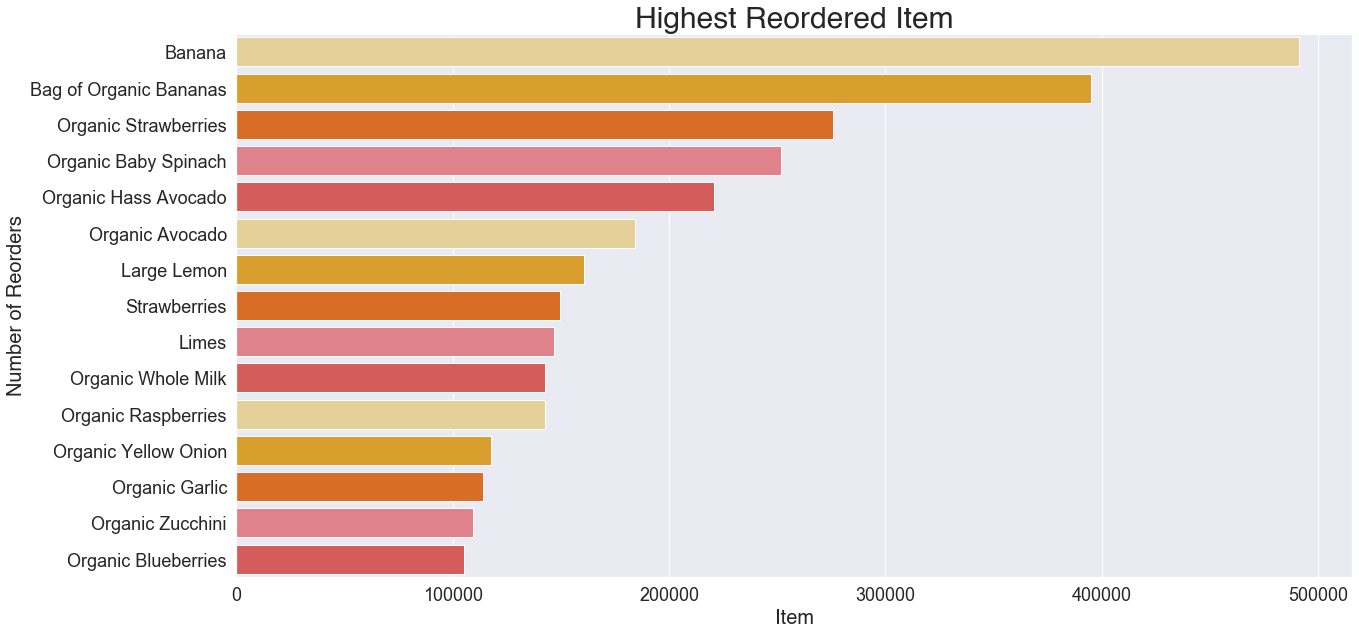
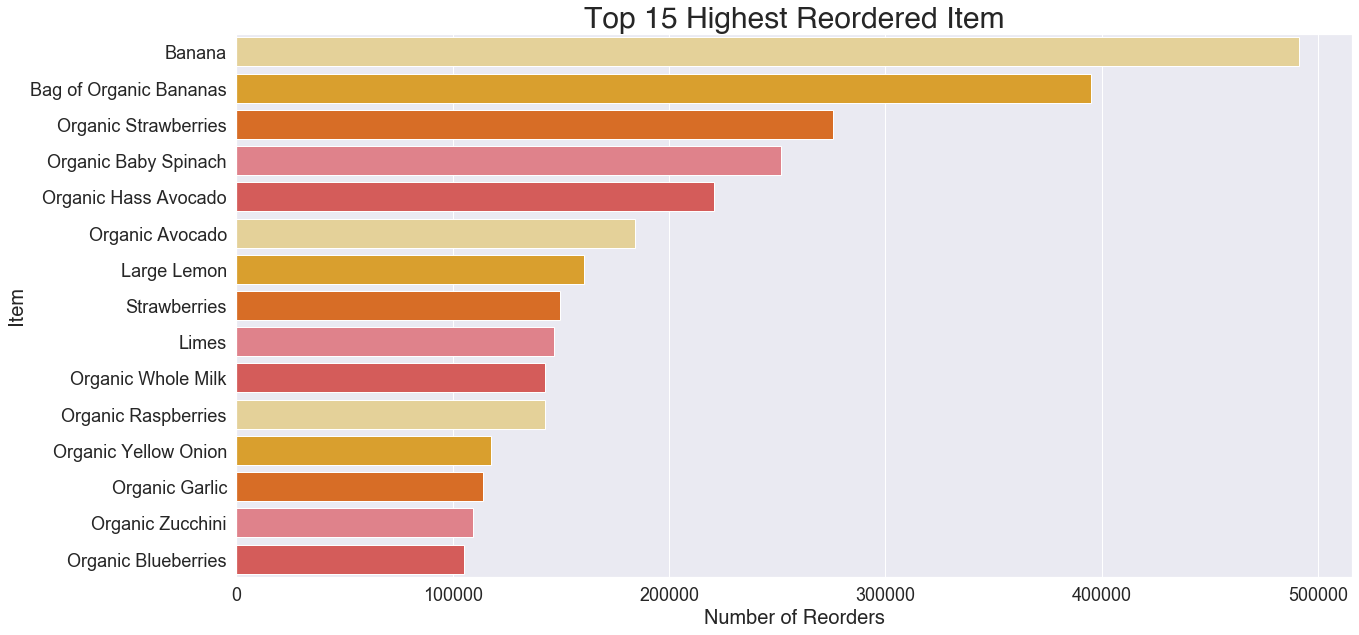
Update

Changed region(s): [[0.4327, 0.0, 0.7417, 0.0598], [0.0, 0.3591, 0.0309, 0.6283], [0.5254, 0.9575, 0.649, 0.9874]]

diff --git a/notebooks/graphing.py b/notebooks/graphing.py
@@ -12,7 +12,7 @@ def make_graph(df, col_x, col_y, title, x_label, y_label):
     ax.tick_params(axis='both', which='major', labelsize=18)
     plt.title(title, fontdict=fonttitle)
     plt.show()
-    make_graph(hours, 'index', 'order_hour_of_day', 'Orders by Hour', "Hours", 'Number of Orders')
+
 if __name__ == "__main__":
     full = pd.read_csv("../full.csv")
 
@@ -29,20 +29,22 @@ if __name__ == "__main__":
     fontaxis = {'fontname':'Helvetica', 'fontsize':20}
 
     #---    things to graph
+    high_order = full.groupby('product_name').agg({"order_id":"count"})\
+                     .sort_values(by='order_id', ascending = False).reset_index()[:15]
+
     high_reord = full.groupby('product_name').agg({"reordered":"count"})\
-                     .sort_values(by='reordered', ascending = False).reset_index()[:50]
-    # dow = full['order_dow'].value_counts().reset_index()
+                     .sort_values(by='reordered', ascending = False).reset_index()[:15]
+    dow = full['order_dow'].value_counts().reset_index()
     hours = full['order_hour_of_day'].value_counts().reset_index().sort_values(by="index")
-    # num_order = full['order_number'].value_counts()
-    # top_depart = full.groupby('department').agg({"product_name":"size"})\
-    #                  .sort_values(by='product_name', ascending = False).reset_index()
-    # top_aisle = full.groupby('aisle').agg({"product_name":"size"})\
-    #                  .sort_values(by='product_name', ascending = False).reset_index()[:25]
-    # bottom_aisle = full.groupby('aisle').agg({"product_name":"size"})\
-    #                  .sort_values(by='product_name', ascending = False).reset_index()[84:]
+    num_order = full['order_number'].value_counts()
+    top_depart = full.groupby('department').agg({"product_name":"size"})\
+                     .sort_values(by='product_name', ascending = False).reset_index()
+    top_aisle = full.groupby('aisle').agg({"product_name":"size"})\
+                     .sort_values(by='product_name', ascending = False).reset_index()[:20]
+    bottom_aisle = full.groupby('aisle').agg({"product_name":"size"})\
+                     .sort_values(by='product_name', ascending = False).reset_index()[84:]
 
     #---    plots
     make_graph(hours, 'index', 'order_hour_of_day', 'Orders by Hour', "Hours", 'Number of Orders')
-    # make_graph(dow, 'index', 'order_dow', 'Orders by Day of Week', "Day", 'Number of Orders', )
-    # make_graph(high_reord, 'product_name', 'reordered', 'Highest Reordered Item', "Item", 'Number of Reorders')
-                          
+    make_graph(dow, 'index', 'order_dow', 'Orders by Day of Week', "Day", 'Number of Orders', )
+    make_graph(high_reord, 'reordered', 'product_name', 'Top 15 Highest Reordered Item', 'Number of Reorders', "Item")                

diff --git a/notebooks/pca.py b/notebooks/pca.py
@@ -5,6 +5,8 @@ from sklearn.feature_extraction.text import TfidfVectorizer
 from sklearn.metrics import pairwise_distances
 from sklearn import metrics
 from sklearn.preprocessing import StandardScaler
+from sklearn.decomposition import PCA
+import matplotlib.pyplot as plt
 
 if __name__ == '__main__':
     #---    Upload test / train csv
@@ -28,7 +30,7 @@ if __name__ == '__main__':
     #---    PCA Work
     pca_work = pd.crosstab(full['user_id'], full['aisle'])  #shape (131,209 by 134)
     scaler = StandardScaler(copy=True, with_mean=True, with_std=True)
-    pca_scaled = scaler.fit_transform(pca_work) 
+    pca_scaled = scaler.fit_transform(pca_work)
 
     pca = PCA(n_components=6)
     pca.fit(pca_scaled)
@@ -41,22 +43,37 @@ if __name__ == '__main__':
 
     #ugly graph
     fig, ax = plt.subplots(1, 1, figsize=(8, 6))
-    ax.scatter(X_pca[:, 0], X_pca[:, 1],
-           cmap=plt.cm.Set1, edgecolor='k', s=40)
+    ax.scatter(X_pca[:, 0], X_pca[:, 1], edgecolor='k', s=40)
+    ax.set_title("First two PCA directions")
+    ax.set_xlabel("1st eigenvector (PC1)")
+    ax.set_ylabel("2nd eigenvector (PC2)")
     plt.show();
-
-    #explain variance only 10%
-    np.sum(pca.explained_variance_ratio_)
 
     #this graph shows something different?
-    total_variance = np.sum(pca.explained_variance_)
-    cum_variance = np.cumsum(pca.explained_variance_)
-    prop_var_expl = cum_variance/total_variance
+    # total_variance = np.sum(pca.explained_variance_)
+    # cum_variance = np.cumsum(pca.explained_variance_)
+    # prop_var_expl = cum_variance/total_variance
 
+    #looking for ideal PCA number
+    ratio = []
+    for num in range(6, 134):
+        pca = PCA(n_components=num)
+        pca.fit(pca_scaled)
+        X_pca = pca.transform(pca_scaled)
+        ratio.append([num, np.sum(pca.explained_variance_ratio_)])
+    
+    #make df
+    ratio_df = pd.DataFrame(ratio)
+
+    #graph variance
     fig, ax = plt.subplots(figsize=(8,6))
-    ax.plot(prop_var_expl, color='red', linewidth=2, label='Explained variance')
-    ax.axhline(0.9, label='90% goal', linestyle='--', color="black", linewidth=1)
-    ax.set_ylabel('cumulative prop. of explained variance')
-    ax.set_xlabel('number of principal components')
+    ax.plot(ratio_df[1], color='#F46708', linewidth=3, label='Explained Variance')
+    ax.axhline(0.9, label='90% goal', linestyle='--', linewidth='2', color="#F1D78C")
+    ax.axvline(111, label='Target # PCA = 117', linestyle='--', linewidth='2', color="#E84846")
+    ax.set_ylabel('Explained Variance Ratio', fontdict=fontaxis)
+    ax.set_xlabel('Number of Principal Components', fontdict=fontaxis)
+    ax.tick_params(axis='both', which='major', labelsize=18)
     ax.legend()
     plt.show();
+
+    

diff --git a/notebooks/adjusting_test.py b/notebooks/adjusting_test.py
@@ -1,0 +1,31 @@
+import numpy as np
+import pandas as pd
+
+if __name__ == '__main__':
+    #---    Upload test / train csv
+    X_test = pd.read_csv("../X_test.csv")
+    X_train = pd.read_csv("../X_train.csv")
+
+    X_test.drop('Unnamed: 0', axis = 1, inplace = True)
+    X_train.drop('Unnamed: 0', axis = 1, inplace = True)
+
+    # looking for if order had B
+    # products[products['product_name'] == 'Banana'] #24852    
+    X_test['banana'] = np.where(X_test['product_id'] == 24852, 1, 0)
+    X_test = X_test.groupby('user_id').agg({'order_dow':'max', 'order_hour_of_day':"max", 
+                                    'days_since_prior_order':'max', 'add_to_cart_order':'max', 
+                                    'banana':'max'}).reset_index()
+    y_test = X_test.pop('banana') #1-10744, 0-64256
+
+    X_train['banana'] = np.where(X_train['product_id'] == 24852, 1, 0)
+    X_train = X_train.groupby('user_id').agg({'order_dow':'max', 'order_hour_of_day':"max", 
+                                    'days_since_prior_order':'max', 'add_to_cart_order':'max', 
+                                    'banana':'max'}).reset_index()
+    y_train = X_train.pop('banana') #1-18726, 0-112483
+
+    #---    Decision Tree Basic Model
+    clf = DecisionTreeClassifier(random_state = 3)
+    clf.fit(X_train, y_train)
+    clf.predict(X_test)
+    dt_score = clf.score(X_test, y_test)
+    print(f'Decision Tree Score {dt_score:.5}')

diff --git a/notebooks/df_setup.py b/notebooks/df_setup.py
@@ -62,12 +62,12 @@ def full_df(order_train, order_prior, products, aisle, depart, orders):
 
 if __name__ == '__main__':    
     #create all data frames
-    order_train = get_csv('../../instacart_data/order_products__train.csv')
-    order_prior = get_csv('../../instacart_data/order_products__prior.csv')
-    orders = get_csv('../../instacart_data/orders.csv')
-    aisle = get_csv('../../instacart_data/aisles.csv')
-    depart = get_csv('../../instacart_data/departments.csv')
-    products = get_csv('../../instacart_data/products.csv')
+    order_train = pd.read_csv('../../instacart_data/order_products__train.csv')
+    order_prior = pd.read_csv('../../instacart_data/order_products__prior.csv')
+    orders = pd.read_csv('../../instacart_data/orders.csv')
+    aisle = pd.read_csv('../../instacart_data/aisles.csv')
+    depart = pd.read_csv('../../instacart_data/departments.csv')
+    products = pd.read_csv('../../instacart_data/products.csv')
     
     #full df for graphing
     full = full_df(order_train, order_prior, products, aisle, depart, orders)

diff --git a/notebooks/tress.py b/notebooks/tress.py
@@ -31,21 +31,12 @@ def gridsearch_with_output(estimator, parameter_grid, X_train, y_train):
     return best_params, model_best
 
 if __name__ == '__main__':
-    #---    Upload test / train csv
-    X_test = pd.read_csv("../X_test.csv")
-    y_test = pd.read_csv("../y_test.csv")
-    X_train = pd.read_csv("../X_train.csv")
-    y_train = pd.read_csv("../y_train.csv")
-
-    #---    Get dummies on product_id, will need to merge back to OG X_train
-    pd.get_dummies(X_train['product_id'])
-
     #---    Decision Tree Basic Model
-    # clf = DecisionTreeClassifier(random_state = 3)
-    # clf.fit(X_train, y_train)
-    # clf.predict(X_test)
-    # dt_score = clf.score(X_test, y_test)
-    # print(f'Decision Tree Score {dt_score:.5}')
+    clf = DecisionTreeClassifier(random_state = 3)
+    clf.fit(predict, y_train)
+    clf.predict(predict_test)
+    dt_score = clf.score(predict_test, y_test)
+    print(f'Decision Tree Score {dt_score:.5}')
 
     #---    Decision Tree GridSearch
     # dt_boosting_grid = {'min_samples_split': [4, 8],

diff --git a/README.md b/README.md
@@ -8,20 +8,16 @@
 ![title](images/dayofweek.png)
 ![title](images/hour.png)
 
-## Question Number One:
-- Can I predict if an item will be reordered by a customer?
-
-## Question Number Two:
-- Can I group users together based on their purchases and recommend new items?
+## Principal Components
+- I organized my data frame to be users and the number of items for each aisle they purchaed per order. I wanted to explore PCA to see how many features I can reduce my matrix down to.
+- Realizing that I needed to have 117 feautres to account for 90% variance in my model tells me that my features are already orthogonal (or pretty close)
+![title](images/pca.png)
 
 ## Supervised Machine Learning
-- Built a Decision Tree with mean accuracy score of <num>
-- Ran gridsearch to find best parameters for a Decision Tree Classifier <num>
-- Built a Random Forest with mean accuracy score of <num>
-- Ran gridsearch to find best parameters for a Random Forest Classifier <num>
+
 
 ## Unsupervised Machine Learning
-- PCA: 
+
 
 
 #### Credits
